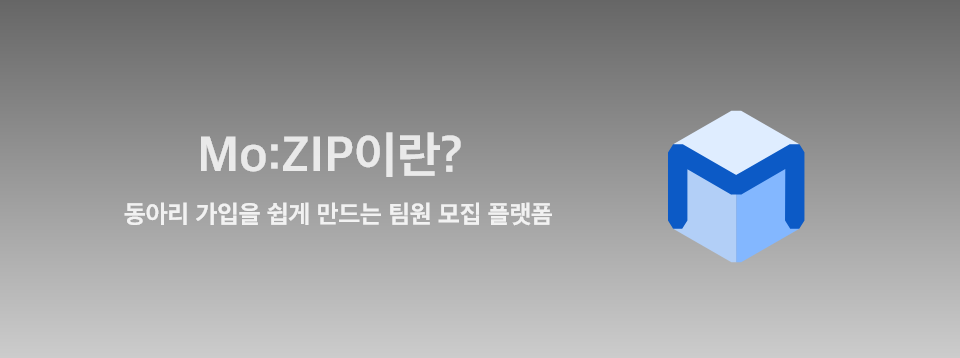
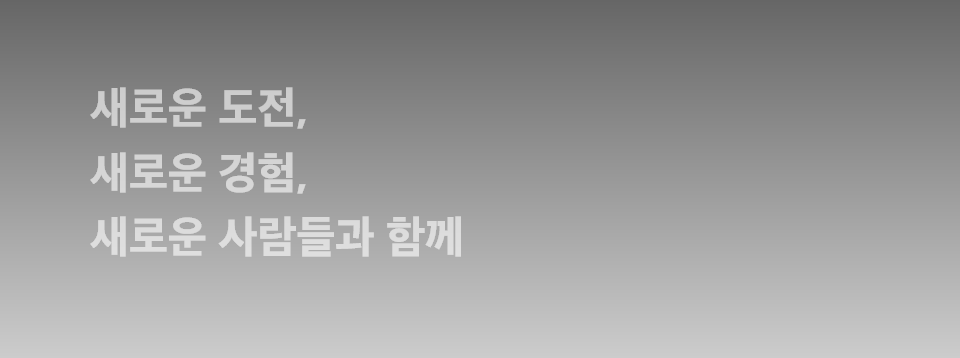
feat: CSS changes (images)

Changed region(s): [[0.0938, 0.2458, 0.5938, 0.7374], [0.6875, 0.3073, 0.8438, 0.7374]]

diff --git a/front/src/Test/home.css b/front/src/Test/home.css
@@ -5,6 +5,9 @@
     overflow-y: scroll;
     overflow-x: hidden;
 } */
+.home_body{
+    max-width: 5000px;
+}
 .home_wrapper{
     width: 1000px;
     margin: 0 auto;
@@ -80,42 +83,17 @@
     margin: 32px;
 }
 .home_mid2_wrapper {
-    width: 100%;
+    max-width: 100%;
+    margin: 72px auto;
+    background: #f9f9f9;
+    /* padding: 25px;  */
 }
-.home_mid2_wrapper .home_banner1{
-    width: 100%;
-    margin: 100px 0;
-    box-sizing: border-box;
-    /* min-height: 100vh; */
-    position: relative;
-    transform-style: inherit;
-    /* width: 100vw; */
-    
-}
-
-
-.home_mid2_wrapper .home_banner1::before{
-    content: "";
-    position: absolute;
-    background: url("../images/banner1_image@2x.png");
-    /* background-size: cover;
-    transform-origin: center center 0;
-    transform: translateZ(-5px) scale(.8);
-    z-index: -1;
-    width: 100%;
+.home_banner1 {
+    background: url("../images/banner1_image@2x.png") no-repeat center;
+    background-size: cover;
+    background-attachment: fixed;
     height: 100%;
-    
-    overflow-y: scroll;
-    overflow-x: hidden;
-
-    top: 0;
-    left: 0;
-    right: 0;
-    bottom: 0;
-    display: block;
-    max-height: 100%; */
 }
-
 .home_mid3_wrapper{
     width: 1000px;
     margin: 0 auto;
@@ -142,10 +120,21 @@
     margin: 32px;
     margin-top: 0px;
 }
-.home_mid5_wrapper img{
-    width: 100%;
-    margin: 0px;
-    height: auto;
-    margin-bottom: -100px;
+.home_mid5_wrapper{
+    max-width: 100%;
+    height:100%;
+    margin: 0 auto;
+    background: #f9f9f9;
+    padding: 25px; 
+    margin-bottom: -110px;
     margin-top: 28px;
+    background: #f9f9f9;
+    /* padding: 25px;  */
+}
+
+.home_banner2 {
+background: url("../images/banner2_image@2x.png") no-repeat center;
+background-size: cover;
+background-attachment: fixed;
+height: 100%;
 }

diff --git a/front/src/Test/home.tsx b/front/src/Test/home.tsx
@@ -14,7 +14,7 @@ import imgB from '../images/card_user.png';
 import imgC from '../images/banner1_words@2x.png';
 import imgD from '../images/howitworks@2x.png';
 import imgE from '../images/keyservice@2x.png';
-import imgF from '../images/banner2@2x.png';
+import imgF from '../images/banner2_words@2x.png';
 import icon_academy from '../images/icon_academy@2x.png';
 import icon_art from '../images/icon_art@2x.png';
 import icon_networking from '../images/icon_networking@2x.png';
@@ -195,10 +195,11 @@ const List = (props: RouteComponentProps<{}>) => {
           alt='key services' />
       </div>
       <div className="home_mid5_wrapper">
-        <img
-          className="img_keys"
-          src={imgF}
-          alt='banner' />
+        <div className="home_banner2">
+          <img
+            className="img_keys"
+            src={imgF}
+            alt='banner' /></div>
       </div>
     </div>
   );
